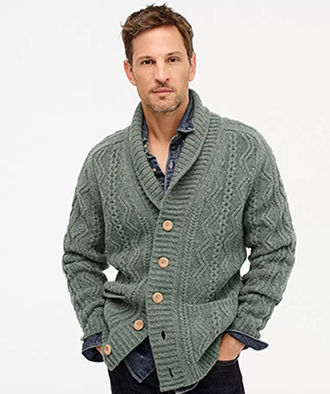
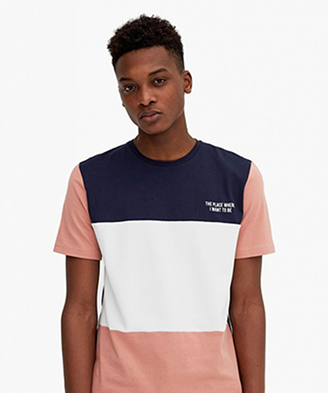
update

diff --git a/index.html b/index.html
@@ -37,7 +37,7 @@
                         <a class="nav-link" href="#">SHOP</a>
                     </li>
                     <li class="nav-item">
-                        <a class="nav-link" href="#">COLLECTION</a>
+                        <a class="nav-link" href="#productPart">COLLECTION</a>
                     </li>
                     <li class="nav-item">
                         <a class="nav-link" href="#">JOURNAL</a>
@@ -132,7 +132,7 @@
                 </div>
             </div>
             <div class="row">
-                <div class="col-lg-3">.
+                <div class="col-lg-3">
                     <a href="#">
                         <picture>
                             <img src="images/p-model 1.png" alt="p-model 1.png" class="w-100 img-fluid">
@@ -146,104 +146,104 @@
                     <span>$29</span>
                 </div>
 
-                <div class="col-lg-3">.
+                <div class="col-lg-3">
                     <a href="#">
                         <picture>
-                            <img src="images/p-model 1.png" alt="p-model 1.png" class="w-100 img-fluid">
+                            <img src="images/p-model 2.png" alt="p-model 1.png" class="w-100 img-fluid">
                         </picture>
                     </a>
                     <div class="productName">
                         <h4>Dresses</h4>
                         <i class="fa-regular fa-heart"></i>
                     </div>
-                    <h5>Cropped Faux Leather Jacket</h5>
+                    <h5>Calvin Shorts</h5>
                     <span>$29</span>
                 </div>
 
-                <div class="col-lg-3">.
+                <div class="col-lg-3">
                     <a href="#">
                         <picture>
-                            <img src="images/p-model 1.png" alt="p-model 1.png" class="w-100 img-fluid">
+                            <img src="images/p-model 3.png" alt="p-model 1.png" class="w-100 img-fluid">
                         </picture>
                     </a>
                     <div class="productName">
                         <h4>Dresses</h4>
                         <i class="fa-regular fa-heart"></i>
                     </div>
-                    <h5>Cropped Faux Leather Jacket</h5>
+                    <h5>Kirby T-Shirt</h5>
                     <span>$29</span>
                 </div>
 
-                <div class="col-lg-3">.
+                <div class="col-lg-3">
                     <a href="#">
                         <picture>
-                            <img src="images/p-model 1.png" alt="p-model 1.png" class="w-100 img-fluid">
+                            <img src="images/p-model 4.png" alt="p-model 1.png" class="w-100 img-fluid">
                         </picture>
                     </a>
                     <div class="productName">
                         <h4>Dresses</h4>
                         <i class="fa-regular fa-heart"></i>
                     </div>
-                    <h5>Cropped Faux Leather Jacket</h5>
+                    <h5>Cableknit Shawl</h5>
                     <span><del>$29</del>$20</span>
                 </div>
 
-                <div class="col-lg-3">.
+                <div class="col-lg-3 mt-5 ">
                     <a href="#">
                         <picture>
-                            <img src="images/p-model 1.png" alt="p-model 1.png" class="w-100 img-fluid">
+                            <img src="images/p-model 5.png" alt="p-model 1.png" class="w-100 img-fluid">
                         </picture>
                     </a>
                     <div class="productName">
                         <h4>Dresses</h4>
                         <i class="fa-regular fa-heart"></i>
                     </div>
-                    <h5>Cropped Faux Leather Jacket</h5>
+                    <h5>Colorful Jacket</h5>
                     <span>$29</span>
                 </div>
 
-                <div class="col-lg-3">.
+                <div class="col-lg-3 mt-5 ">
                     <a href="#">
                         <picture>
-                            <img src="images/p-model 1.png" alt="p-model 1.png" class="w-100 img-fluid">
+                            <img src="images/p-model 6.png" alt="p-model 1.png" class="w-100 img-fluid">
                         </picture>
                     </a>
                     <div class="productName">
                         <h4>Dresses</h4>
                         <i class="fa-regular fa-heart"></i>
                     </div>
-                    <h5>Cropped Faux Leather Jacket</h5>
+                    <h5>Shirt In Botanical Cheetah Print </h5>
                     <span>$29</span>
                 </div>
 
-                <div class="col-lg-3">.
+                <div class="col-lg-3 mt-5 ">
                     <a href="#">
                         <picture>
-                            <img src="images/p-model 1.png" alt="p-model 1.png" class="w-100 img-fluid">
+                            <img src="images/p-model 7.png" alt="p-model 1.png" class="w-100 img-fluid">
                         </picture>
                     </a>
                     <div class="productName">
                         <h4>Dresses</h4>
                         <i class="fa-regular fa-heart"></i>
                     </div>
-                    <h5>Cropped Faux Leather Jacket</h5>
+                    <h5>Cotton Jersey T-Shirt</h5>
                     <span>$29</span>
                 </div>
 
-                <div class="col-lg-3">.
+                <div class="col-lg-3 mt-5 ">
                     <a href="#">
                         <picture>
-                            <img src="images/p-model 1.png" alt="p-model 1.png" class="w-100 img-fluid">
+                            <img src="images/p-model 8.png" alt="p-model 1.png" class="w-100 img-fluid">
                         </picture>
                     </a>
                     <div class="productName">
                         <h4>Dresses</h4>
                         <i class="fa-regular fa-heart"></i>
                     </div>
-                    <h5>Cropped Faux Leather Jacket</h5>
-                  <span> <del>$99</del>$29</span>
+                    <h5>Zessi Dresses</h5>
+                    <span> <del>$99</del>$29</span>
                 </div>
-                
+
                 <div class="allProductbtn">
                     <a href="#">see all product</a>
                 </div>
@@ -254,20 +254,20 @@
     <!-- product part end -->
 
 
-<!-- livebanner part start -->
+    <!-- livebanner part start -->
 
-<section id="liveBanner">
-    <div class="container">
-       <div class="row">
-         <div class="col-lg-12 mb-5">
-            <a href="#"><img src="images/liveimg.jpg " alt="liveimg.jpg" class="w-100 img-fluid"></a> 
-         </div>
-       </div>
-    </div>
+    <section id="liveBanner">
+        <div class="container">
+            <div class="row">
+                <div class="col-lg-12">
+                    <a href="#"><img src="images/liveimg.jpg" alt="liveimg.jpg" class="w-100 img-fluid"></a>
+                </div>
+            </div>
+        </div>
 
-</section>
+    </section>
 
-<!-- livebanner part end -->
+    <!-- livebanner part end -->
 
 
 

diff --git a/css/style.css b/css/style.css
@@ -58,9 +58,9 @@ h6 {
     /* position: relative; */
 }
 
-.nav-link:hover{
-    /* transform: scale(1.2); */
-    transform:rotate(360deg);
+.nav-link:hover {
+    transform: scale(1.2);
+    /* transform: rotate(360deg); */
     color: red;
 }
 
@@ -107,6 +107,15 @@ h6 {
     background: transparent;
     padding: 0 20px;
     margin-bottom: 45px;
+    font-size: 16px;
+    font-weight: 400;
+    transition: .4s;
+    color: #767676;
+}
+.porductbtn button:hover{
+    /* transform: scale(1.1); */
+    font-weight: bold;
+    color: #222;
 }
 
 .productName {
@@ -120,32 +129,43 @@ h6 {
     font-weight: 400;
 }
 
-.col-lg-3 h5{
+.col-lg-3 h5 {
     color: #222;
-    font-size: 16;
-    font-weight: 400    ;
+    font-size: 16px;
+    font-weight: 400;
     margin-bottom: 5px;
 }
-.col-lg-3 span{
+
+.col-lg-3 span {
     color: #222;
 }
-.col-lg-3 del{
+
+.col-lg-3 del {
     color: #d6001c;
     margin-right: 7px;
 }
 
-.allProductbtn{
+.allProductbtn {
     text-align: center;
     margin-top: 50px;
     margin-bottom: 100px;
     font-size: 14px;
-    font-weight:500;
+    font-weight: 500;
     text-transform: uppercase;
 }
-.allProductbtn a{
-    color: #222;
-    
+
+.allProductbtn a {
+    color: #767676;
+
 }
 
-
 /* product part end */
+
+
+
+/* livebanner part start */
+.col-lg-12{
+    margin-bottom: 100px;
+}
+
+/* livebanner part end */
